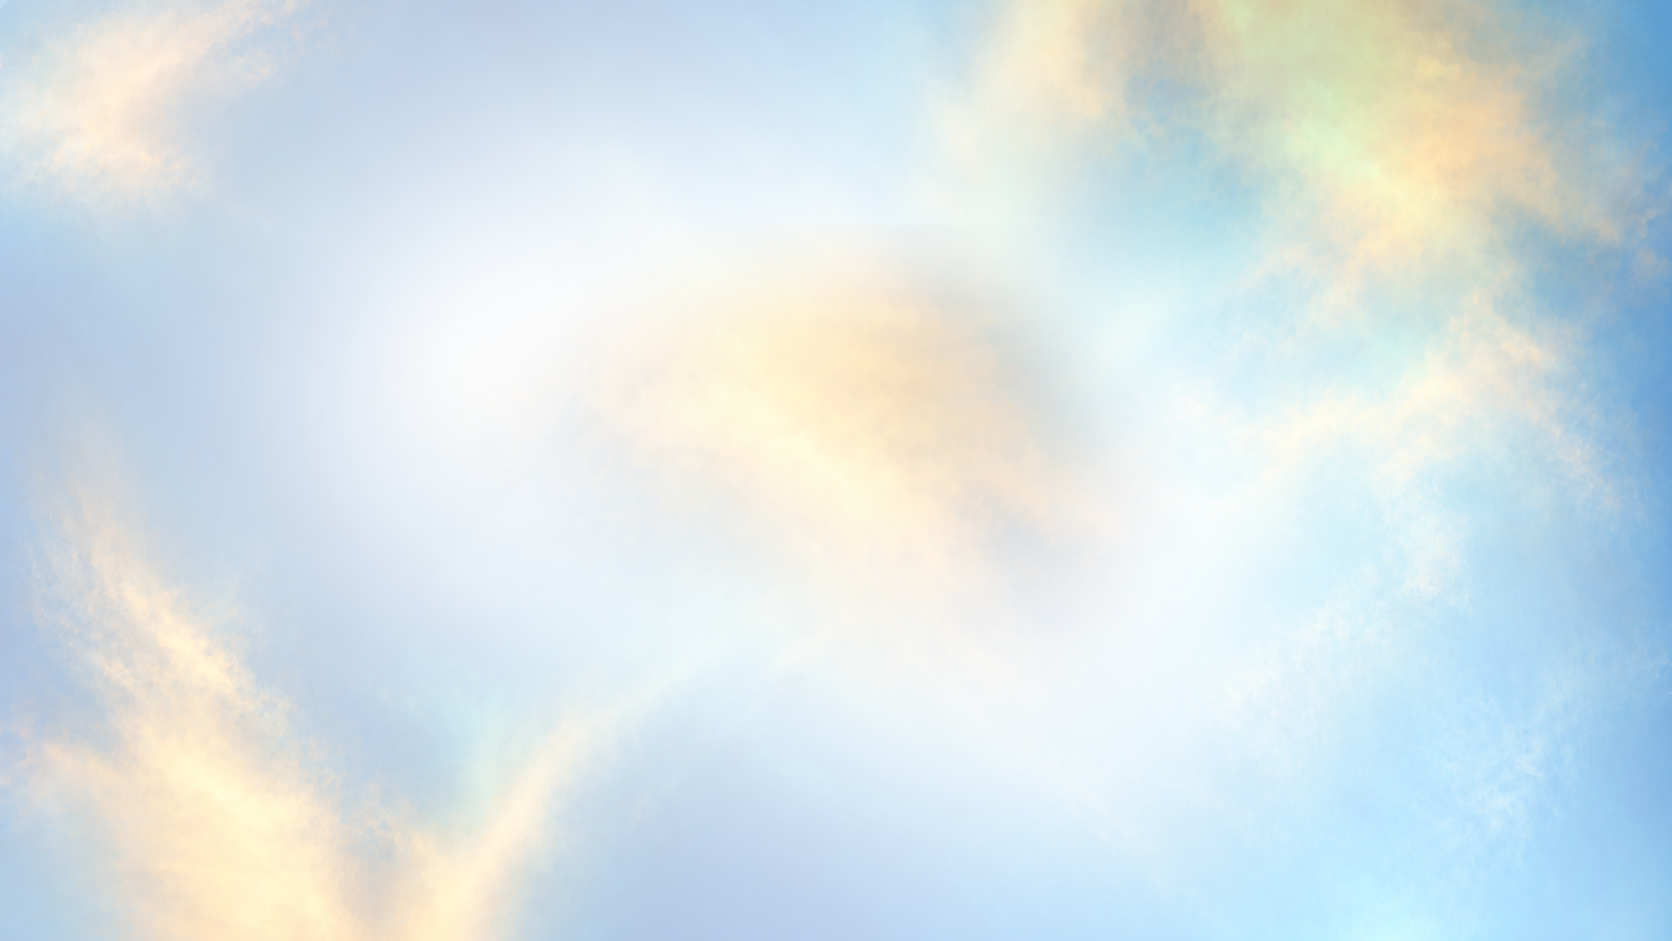
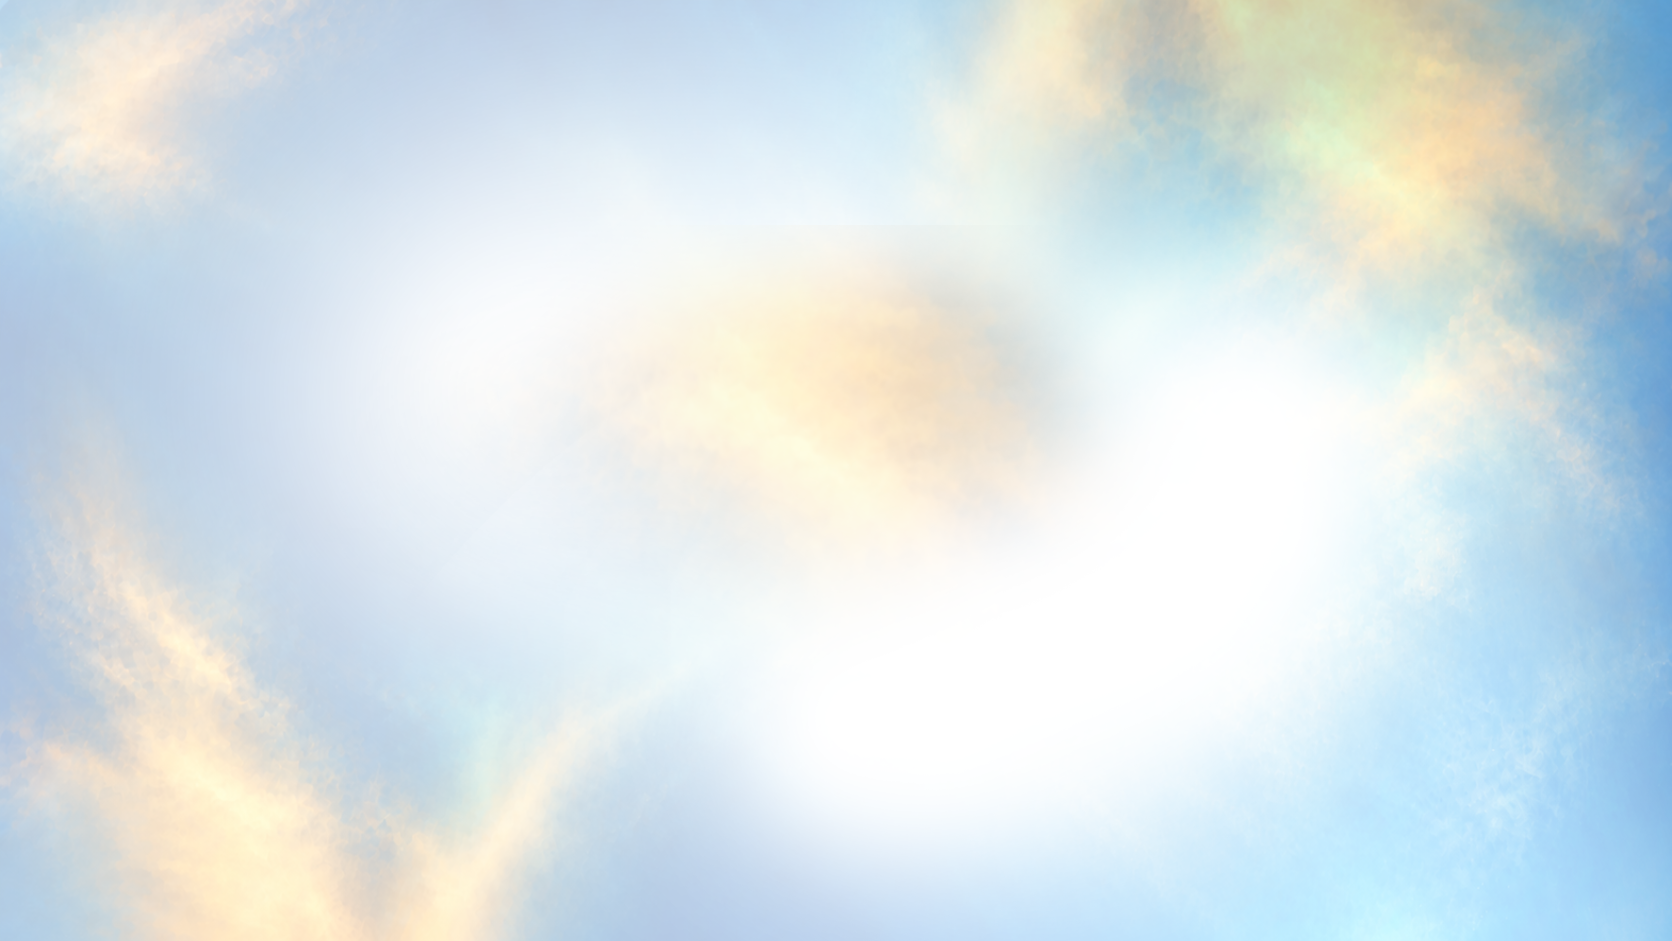
Restore the hero hover so it reveals the adjusted sky image.

diff --git a/components/home/Hero.tsx b/components/home/Hero.tsx
@@ -126,7 +126,7 @@ export function Hero() {
           />
           <img
             ref={revealRef}
-            src="/assets/home/hero-nebula.jpg"
+            src="/assets/home/hero-revealed.png"
             alt=""
             className="absolute inset-0 h-full w-full object-cover object-left-top opacity-0 transition-opacity duration-500 ease-out motion-reduce:transition-none"
             style={{
